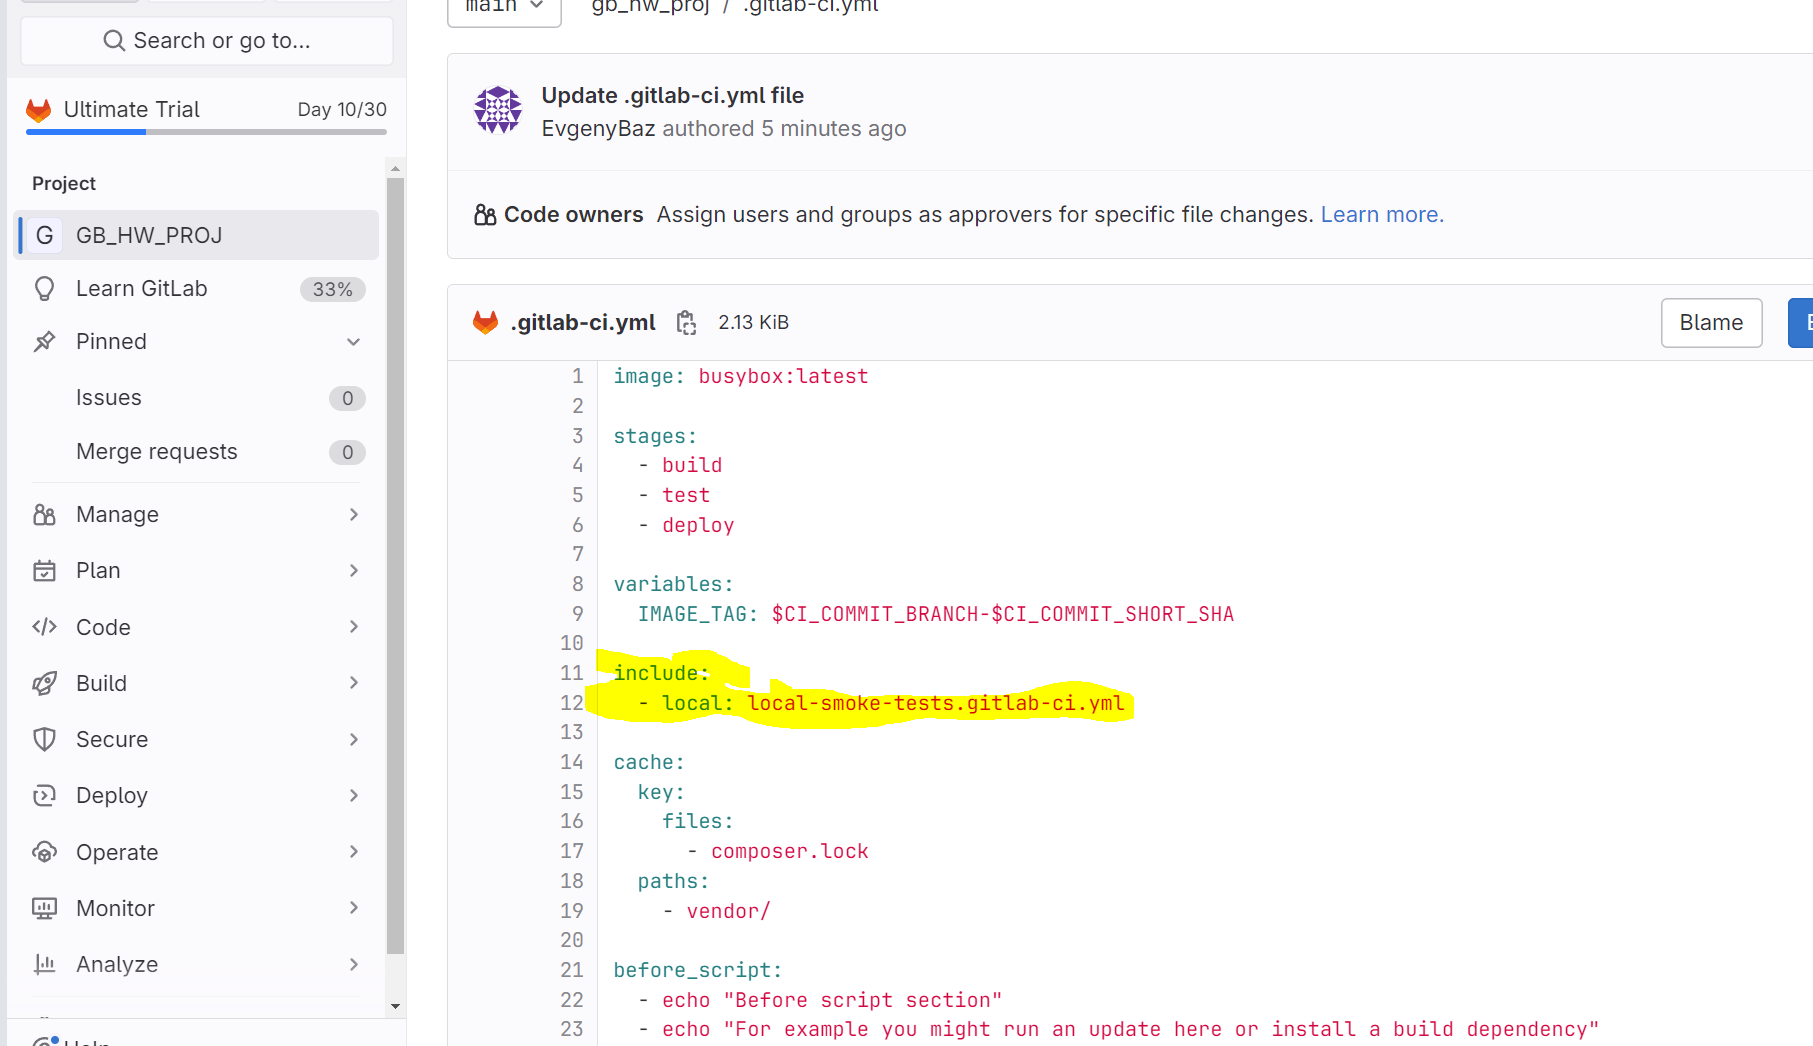
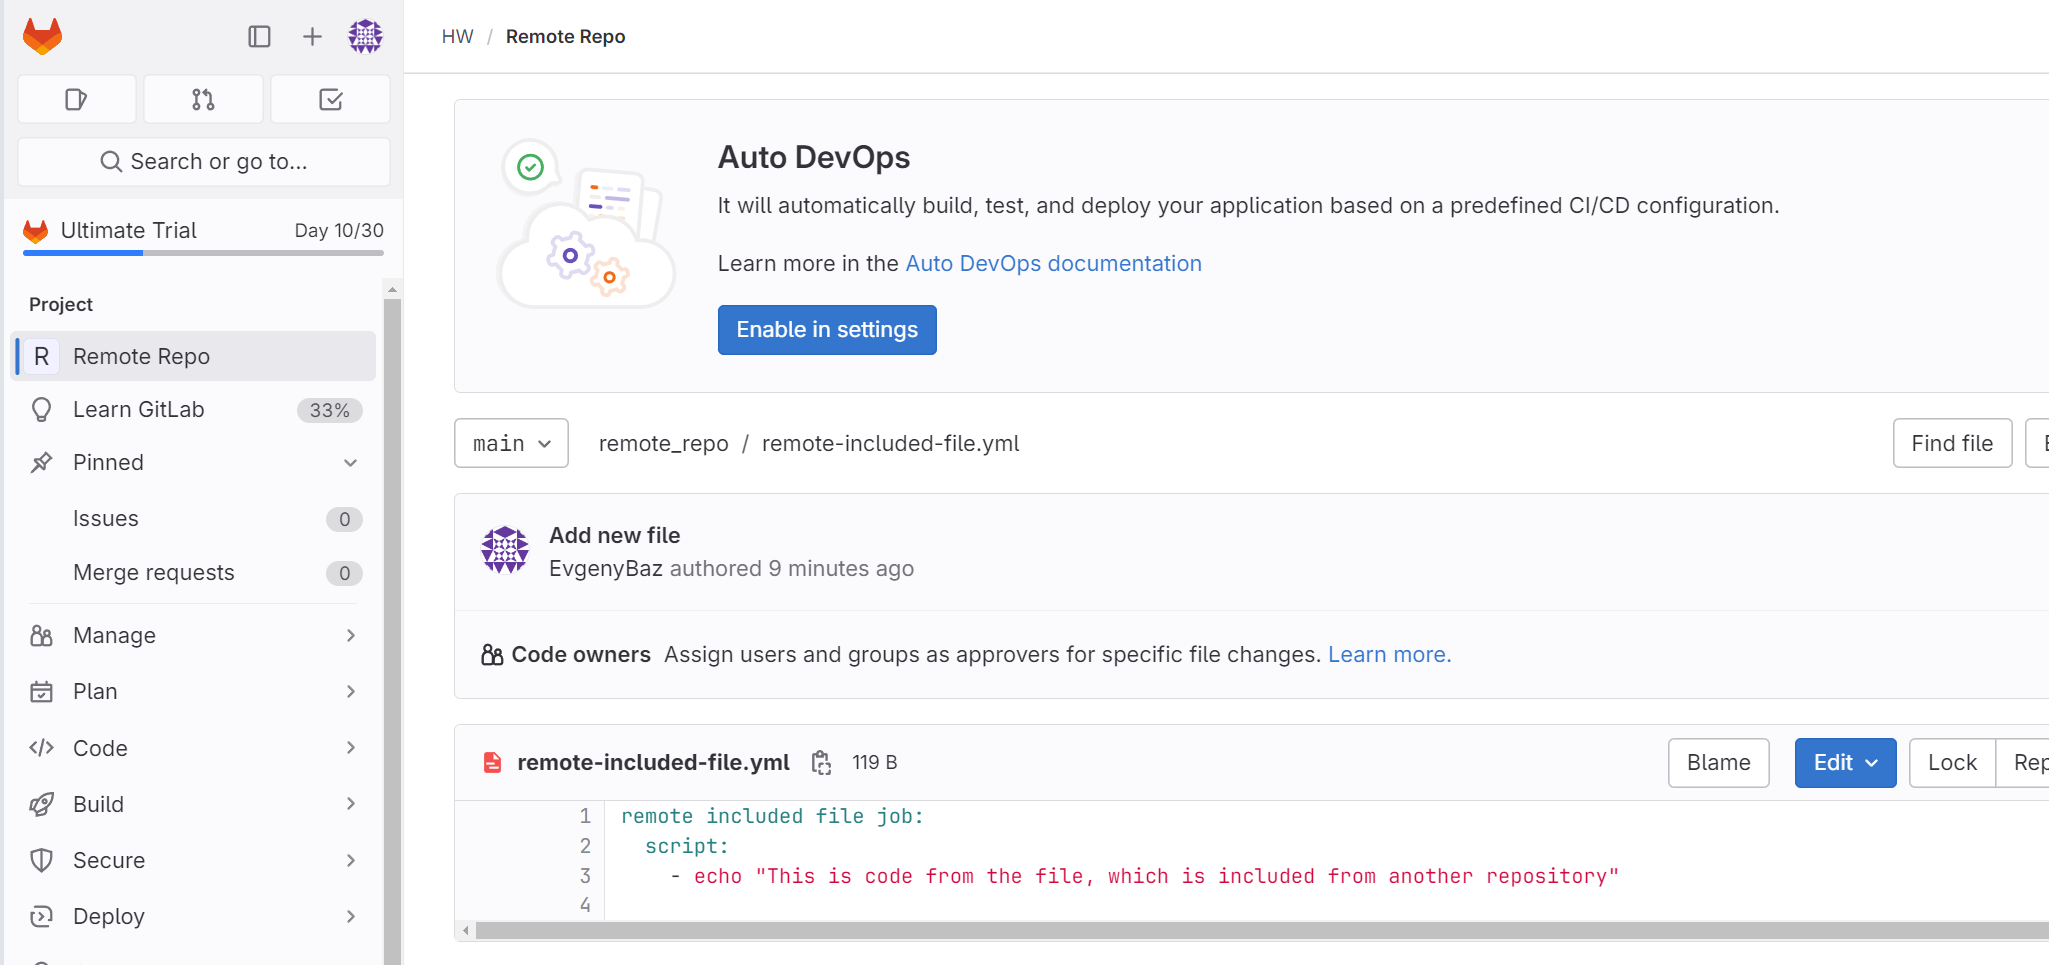
HW4 done

diff --git a/HW4/readme.md b/HW4/readme.md
@@ -2,17 +2,24 @@
 
 ![](img.png)
 
-подключен к основному
+и файл в другом репозитории
 
 ![](img_1.png)
 
-все jobs  выполнены и подключенная в том числе
+оба подключены к основному
 
 ![](img_2.png)
 
-Результат выполнения 
+все jobs  выполнены и подключенные в том числе
 
 ![](img_3.png)
+
+Результат выполнения 
+
+
+![](img_4.png)
+
+![](img_5.png)
 
 
 
